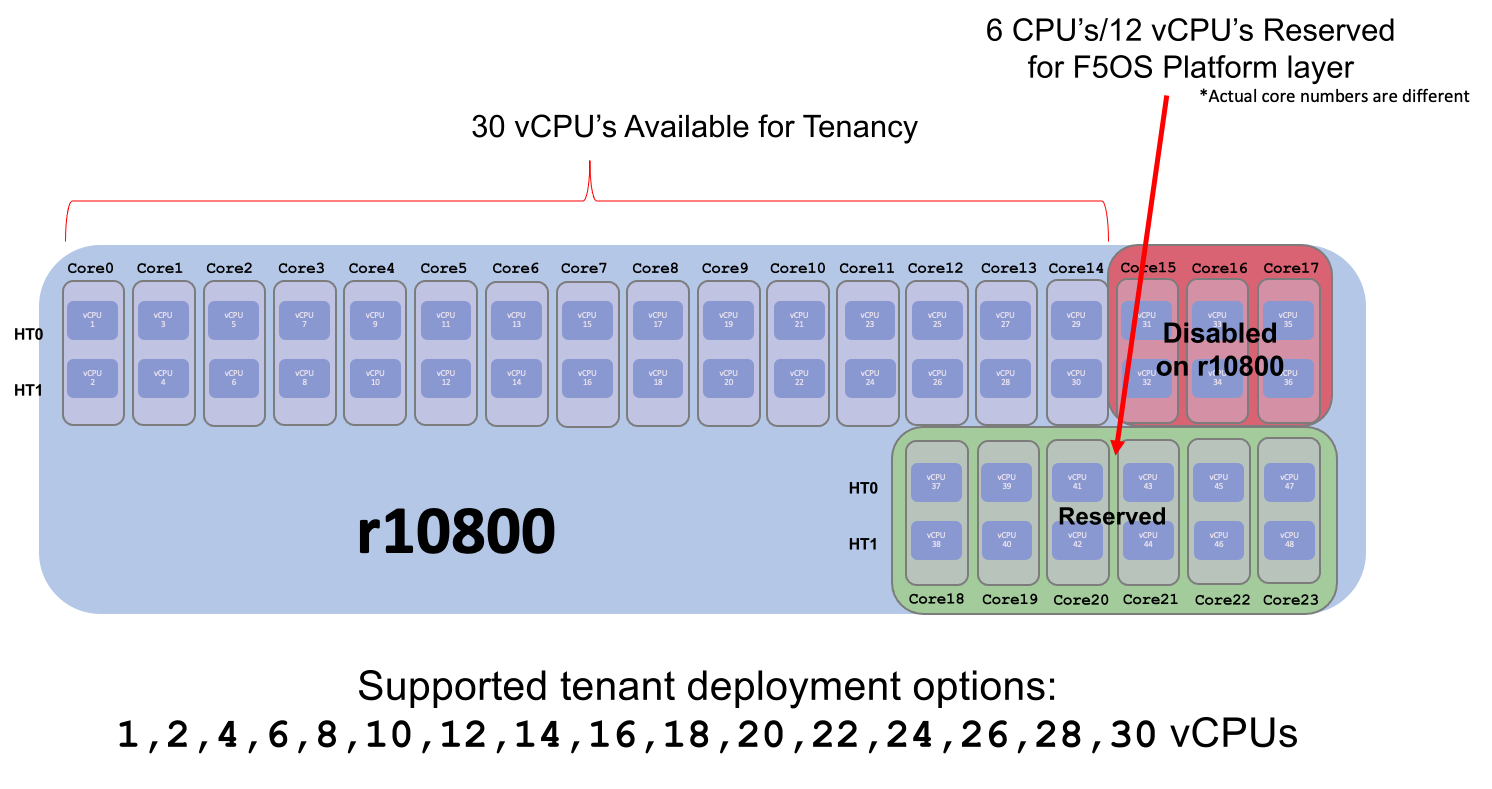
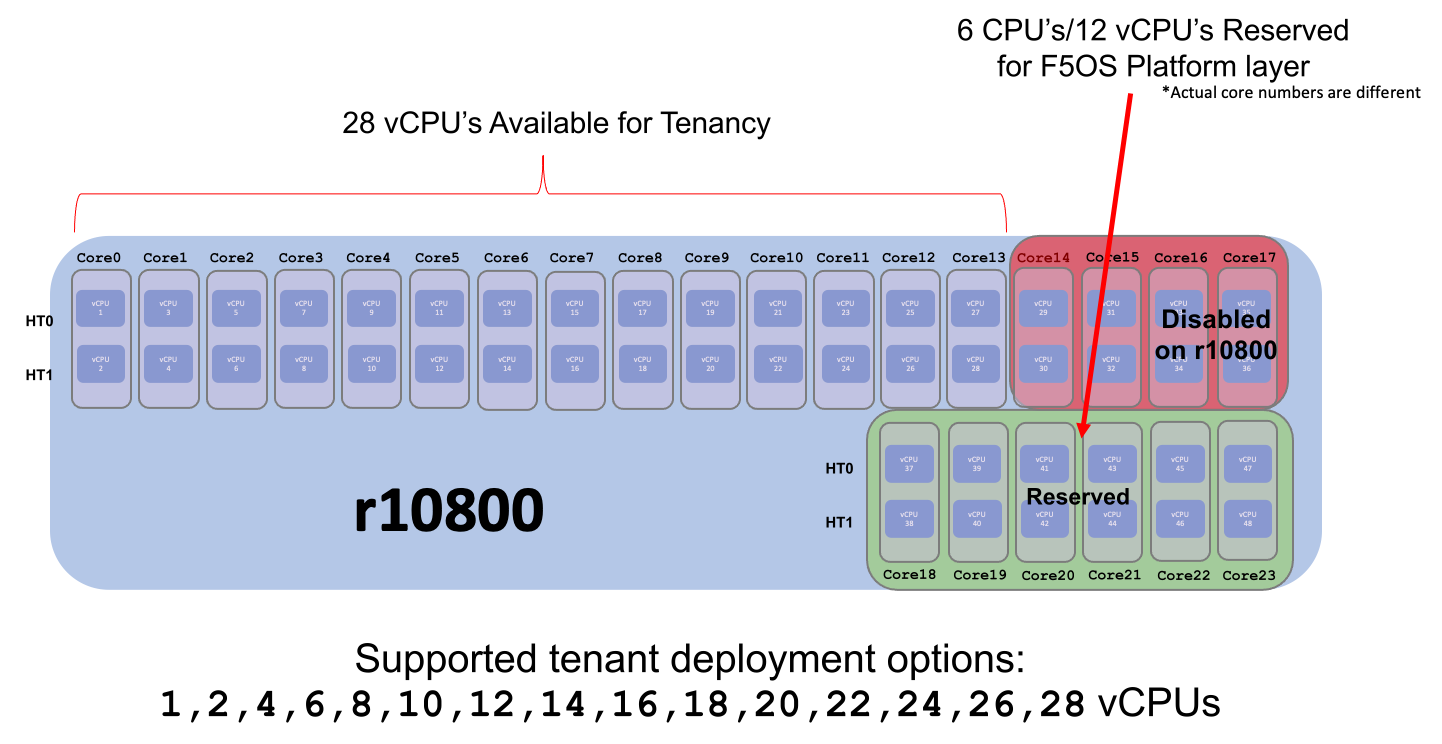
multitenancy

diff --git a/docs/rseries_multitenancy.rst b/docs/rseries_multitenancy.rst
@@ -97,7 +97,7 @@ Using the minimum Recommended values per tenant ~129GB of RAM will be allocated 
 r10000 Series Multitenancy
 ==========================
 
-Each r10000 Series appliance has 48 vCPU’s, however 12 of those vCPU’s are dedicated to the F5OS layer. This leaves 36 vCPU’s left over for use by tenants on the r10900, 30 vCPU's for the r10800, and 24 vCPU's for the r10600.  You can dedicate all vCPU’s to one large tenant, or you can allocate smaller numbers of VCPU’s per tenant so that you can deploy many tenants. Below are examples of the total number of vCPU's supported for each r10000 platform.
+Each r10000 Series appliance has 48 vCPU’s, however 12 of those vCPU’s are dedicated to the F5OS layer. This leaves 36 vCPU’s left over for use by tenants on the r10900, 28 vCPU's for the r10800, and 24 vCPU's for the r10600.  You can dedicate all vCPU’s to one large tenant, or you can allocate smaller numbers of VCPU’s per tenant so that you can deploy many tenants. Below are examples of the total number of vCPU's supported for each r10000 platform.
 
 The r10900 has 48 vCPU's total, 12 vCPU's reserved for F5OS, and 36 vCPU's left over for use by tenants:
 
@@ -106,7 +106,7 @@ The r10900 has 48 vCPU's total, 12 vCPU's reserved for F5OS, and 36 vCPU's left 
   :align: center
   :scale: 60%
 
-The r10800 has 48 vCPU's total, 6 vCPU's are disabled via licensing, 12 vCPU's reserved for F5OS, and 30 vCPU's left over for use by tenants:
+The r10800 has 48 vCPU's total, 8 vCPU's are disabled via licensing, 12 vCPU's reserved for F5OS, and 28 vCPU's left over for use by tenants:
 
 .. image:: images/rseries_multitenancy/image4.png
   :align: center
@@ -118,7 +118,7 @@ The r10600 has 48 vCPU's total, 12 vCPU's are disabled via licensing, 12 vCPU's 
   :align: center
   :scale: 60%
 
-Since all r10000 models are running on the same hardware appliance, you can easily upgrade from the r10600 to either the r10800 or r10900 to unlock more performance via a simple license change. The r10800 can be upgraded to an r10900 to unlock more performance. This is all part of the Pay-as-you-Grow or PAYG strategy for the rSeries appliances. There are 3 PAYG tiers within the r10000 series appliances.
+Since all r10000 models are running on the same hardware appliance, you can easily upgrade from the r10600 to either the r10800 or r10900 to unlock more performance via a simple license change. The r10800 can be upgraded to an r10900 to unlock more performance. This is all part of the Pay-as-you-Grow or PAYG strategy for the rSeries appliances. There are 3 PAYG tiers within the r10000 appliance.
 
 r5000 Series Multitenancy
 ==========================
@@ -138,7 +138,7 @@ The r5800 has 32 vCPU's total, 8 vCPU's are disabled via licensing, 6 vCPU's res
   :align: center
   :scale: 40%
 
-The r5600 has 32 vCPU's total, 14 vCPU's are disabled via licensing, 6 vCPU's reserved for F5OS, and 12 vCPU's left over for use by tenants:  
+The r5600 has 32 vCPU's total, 14 vCPU's are disabled via licensing, 6 vCPU's reserved for F5OS, and 12 vCPU's left over for use by tenants. Note there is a max of 4 tenants:  
 
 .. image:: images/rseries_multitenancy/image8.png
   :align: center
@@ -149,9 +149,11 @@ Since all r5000 models are running on the same hardware appliance, you can easil
 r4000 Series Multitenancy
 ==========================
 
-In the high-end (r10000) and mid-range (r5000) rSeries appliances each Intel CPU core runs hyperthreading and appears as two logical CPU's or vCPU's. For each physical CPU core there are two logical vCPU's. The r4000 series of appliances use a different class of Intel CPU that does not support hyperthreading. Instead of measuring how many vCPU's or logical cores these platforms support, they are measured using physical CPU core counts only. The r4000 series platforms do not include FPGA's for hardware offloading of workloads like DDoS mitigation, or FASTL4 offload. These workloads are handled by CPU instead. SSL and Compression are part of the Intel CPU complex and are offloaded within the CPU. 
+**NOTE: This is subject to change**
 
-Each r4000 Series appliance has 16 CPU cores (not vCPU’s), unlike the high-end (r10000) and mid-range (r5000) rSeries appliances there are no CPU's dedicated to the F5OS platform layer. Since there are no FPGA's that require dedicated CPU's to interface with, the F5OS platform layer processes can be spread across all the available CPU's. This allows for more CPU's to be used for tenancy.
+In the high-end (r10000) and mid-range (r5000) rSeries appliances each Intel CPU core runs hyperthreading and appears as two logical CPU's or vCPU's. For each physical CPU core there are two logical vCPU's. The r4000 series of appliances use a different class of Intel CPU that does not utilize hyperthreading. Instead of measuring how many vCPU's or logical cores these platforms support, they are measured using physical CPU core counts only. The r4000 series platforms do not include FPGA's for hardware offloading of workloads like DDoS mitigation, or FASTL4 offload. These workloads are handled by CPU with specilized offloasd instead. SSL and Compression are part of the Intel CPU complex and are offloaded within the CPU. 
+
+Each r4000 appliance has 16 CPU cores (not vCPU’s), unlike the high-end (r10000) and mid-range (r5000) rSeries appliances there are no CPU's dedicated to the F5OS platform layer. Since there are no FPGA's that require dedicated CPU's to interface with, the F5OS platform layer processes can be spread across all the available CPU's. This allows for more CPU's to be used for tenancy.
 
 This leaves all 16 CPU cores left over for use by tenants on the r4800, and 8 CPU cores for the r4600. You can dedicate all CPU cores to one large tenant, or you can allocate smaller numbers of CPU cores per tenant so that you can deploy many tenants. Below are examples of the total number of CPU cores supported for each r4000 platform.
 
@@ -174,9 +176,11 @@ Since all r4000 models are running on the same hardware appliance, you can easil
 r2000 Series Multitenancy
 ==========================
 
-In the high-end (r10000) and mid-range (r5000) rSeries appliances each Intel CPU core runs hyperthreading and appears as two logical CPU's or vCPU's. For each physical CPU core there are two logical vCPU's. The r2000 series of appliances use a different class of Intel CPU that does not support hyperthreading. Instead of measuring how many vCPU's or logical cores these platforms support, they are measured using physical CPU core counts only. The r2000 series platforms do not include FPGA's for hardware offloading of workloads like DDoS mitigation, or FASTL4 offload. These workloads are handled by CPU instead. SSL and Compression are part of the Intel CPU complex and are offloaded within the CPU. 
+**NOTE: This is subject to Change**
 
-Each r2000 Series appliance has 8 CPU cores (not vCPU’s), unlike the high-end (r10000) and mid-range (r5000) rSeries appliances there are no CPU's dedicated to the F5OS platform layer. Since there are no FPGA's that require dedicated CPU's to interface with, the F5OS platform layer processes can be spread across all the available CPU's. This allows for more CPU's to be used for tenancy.
+In the high-end (r10000) and mid-range (r5000) rSeries appliances each Intel CPU core runs hyperthreading and appears as two logical CPU's or vCPU's. For each physical CPU core there are two logical vCPU's. The r2000 series of appliances use a different class of Intel CPU that does not utilize hyperthreading. Instead of measuring how many vCPU's or logical cores these platforms support, they are measured using physical CPU core counts only. The r2000 series platforms do not include FPGA's for hardware offloading of workloads like DDoS mitigation, or FASTL4 offload. These workloads are handled by CPU with specialized offload instead. SSL and Compression are part of the Intel CPU complex and are offloaded within the CPU. 
+
+Each r2000 appliance has 8 CPU cores (not vCPU’s), unlike the high-end (r10000) and mid-range (r5000) rSeries appliances there are no CPU's dedicated to the F5OS platform layer. Since there are no FPGA's that require dedicated CPU's to interface with, the F5OS platform layer processes can be spread across all the available CPU's. This allows for more CPU's to be used for tenancy.
 
 This leaves all 8 CPU cores left over for use by a single tenant on the r2800, and 4 CPU cores for the r2600. You can dedicate all CPU cores to one large tenant, or you can allocate smaller numbers of CPU cores per tenant. Below are examples of the total number of CPU cores supported for each r2000 platform.
 
@@ -198,7 +202,7 @@ Since all r2000 models are running on the same hardware appliance, you can easil
 Tenant Sizing
 =============
 
-Single vCPU (Skinny) tenants are supported on the r10000 and r5000 appliances, but that option is hidden under **Advanced** mode. This would allow for 36 single vCPU tenants per r10900 appliance, 30 tenants for the r10800, and 24 tenants for the r10600. For the r5000 platforms this would allow for 26 single vCPU tenants per r5900 appliance, 18 tenants for the r5800, and 12 tenants for the r5600. While single vCPU tenants are supported, they are not recommended for most environments. This is due to the fact that a single vCPU tenant is running on a single hyperthread, and performance of a single thread can be influenced by other services running on the other hyperthread of a CPU. Since this can lead to unpredictable behavior only a very lightly loaded LTM/DNS only type tenant should be considered for this option and ideally for non-production envrionements. As always proper sizing should be done to ensure the tenant has enough resources. 
+Single vCPU (Skinny) tenants are supported on the r10000 and r5000 appliances, but that option is hidden under **Advanced** mode. This would allow for 36 single vCPU tenants per r10900 appliance, 28 tenants for the r10800, and 24 tenants for the r10600. For the r5000 platforms this would allow for 26 single vCPU tenants per r5900 appliance, 18 tenants for the r5800, and 12 tenants for the r5600. While single vCPU tenants are supported, they are not recommended for most environments. This is due to the fact that a single vCPU tenant is running on a single hyperthread, and performance of a single thread can be influenced by other services running on the other hyperthread of a CPU. Since this can lead to unpredictable behavior only a very lightly loaded LTM/DNS only type tenant should be considered for this option and ideally for non-production envrionements. As always proper sizing should be done to ensure the tenant has enough resources. 
 
 Tenant States
 =============
